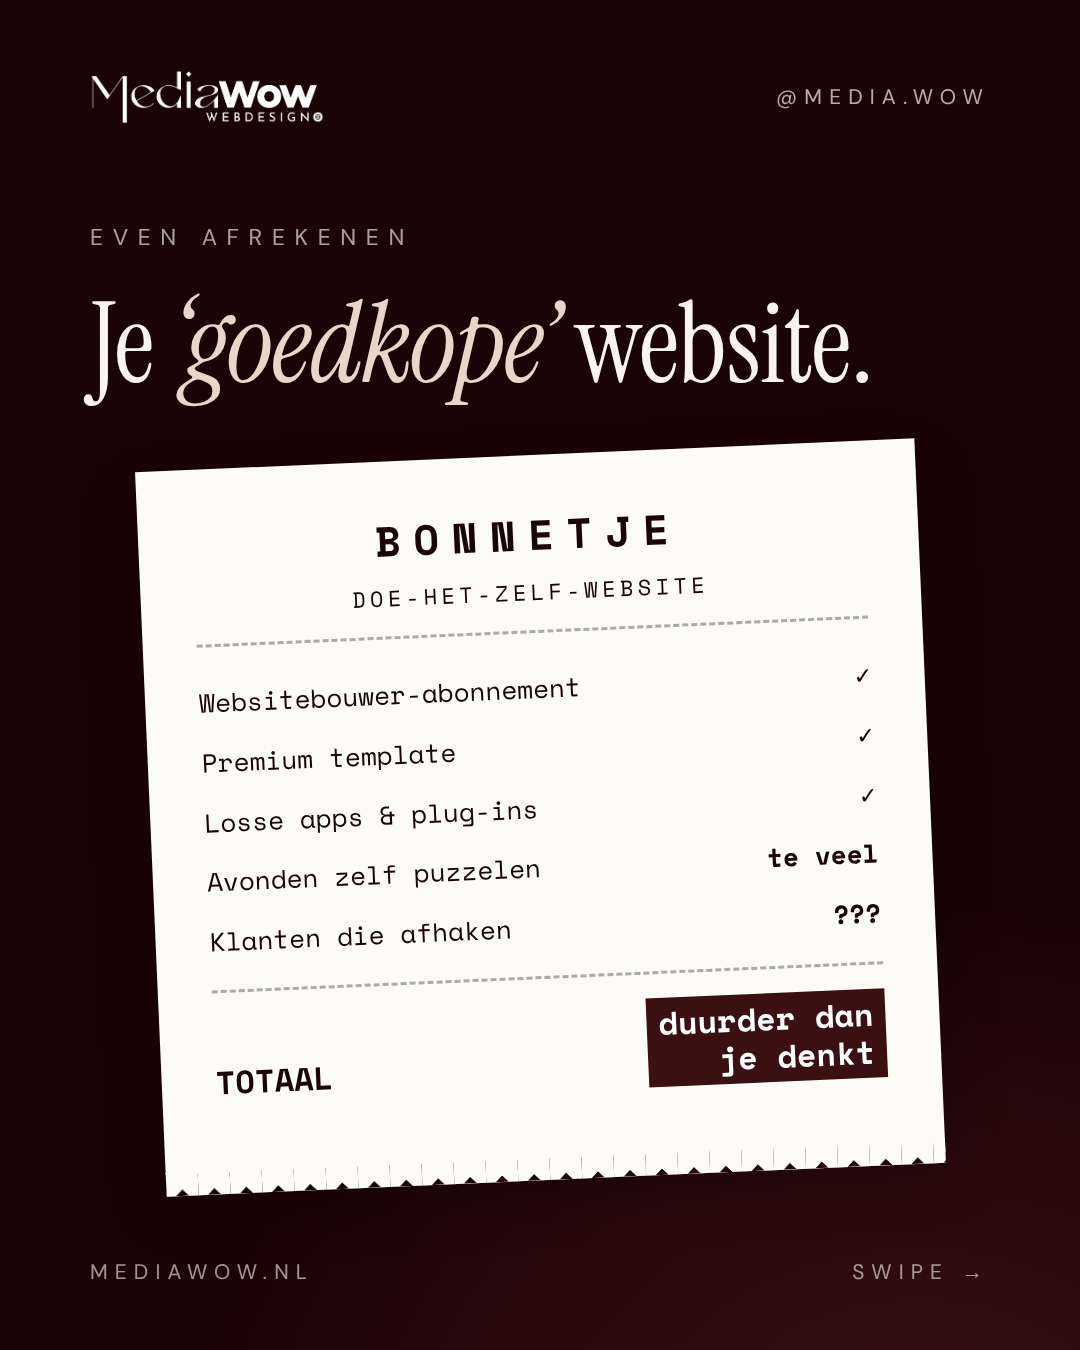
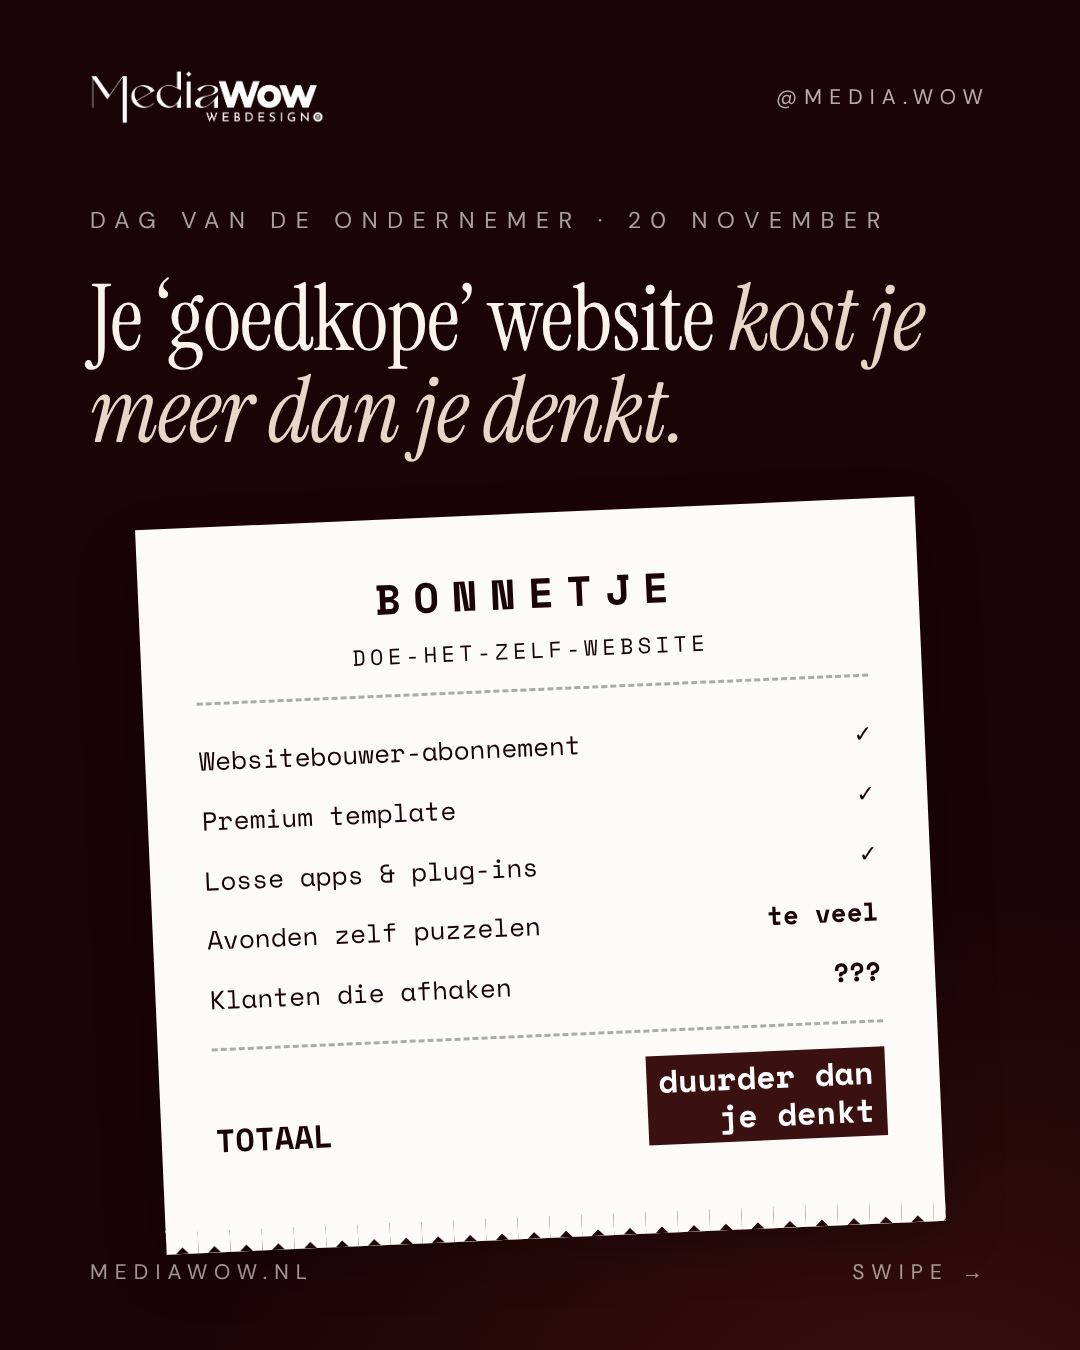
Week 1: sharper Friday hook, no-show post for Saturday, laptop on Sunday, final schedule
Claude-Session: https://claude.ai/code/session_01RBQ5c9Pv2G8CobvSf5vDwJ

diff --git a/instagram/slides.js b/instagram/slides.js
@@ -260,8 +260,8 @@ Of reageer HORECA en ik stuur je de link 🤍
     id: '5-vr-bonnetjes',
     slides: [
       { theme: 'dark', html: `
-        <div class="kicker">Even afrekenen</div>
-        <h1 class="lg">Je <em>‘goedkope’</em> website.</h1>
+        <div class="kicker" style="margin-top:40px">Dag van de Ondernemer · 20 november</div>
+        <h1 class="md">Je ‘goedkope’ website <em>kost je meer dan je denkt.</em></h1>
         <div class="receipt" style="transform:rotate(-2.5deg)">
           <div class="r-title">BONNETJE</div><div class="r-sub">doe-het-zelf-website</div>
           <div class="r-line"><span>Websitebouwer-abonnement</span><span>✓</span></div>
@@ -289,7 +289,9 @@ Of reageer HORECA en ik stuur je de link 🤍
         <p class="lead">Vrijblijvend, via mediawow.nl. Of reageer PREVIEW voor een gratis preview van je nieuwe website.</p>
         <span class="btn">Plan een kennismaking</span>` },
     ],
-    caption: `Je ‘goedkope’ website. Even afrekenen. 🧾
+    caption: `Je ‘goedkope’ website kost je meer dan je denkt. Even afrekenen. 🧾
+
+(Fijne Dag van de Ondernemer trouwens! 🥂 Vandaag dus een eerlijk bonnetje.)
 
 Abonnement ✓ Premium template ✓ Losse apps ✓
 Avonden zelf puzzelen: te veel
@@ -308,68 +310,69 @@ Bonnetje bewaren? Plan een vrijblijvende kennismaking via mediawow.nl (link in b
 
   // ───────────── ZA: LOCKSCREEN ─────────────
   {
-    id: '6-za-lockscreen',
+    id: '6-za-no-show',
     slides: [
       { theme: 'dark', html: `
-        <div class="kicker">Voor horeca · zaterdag 08:30</div>
-        <h1 class="hero">Zo zou jouw zaterdag <em>eruit moeten zien.</em></h1>
-        ${phone(`
-          <div class="lock"><div class="l-date">zaterdag 21 november</div><div class="l-time">08:30</div>
-            <div class="notif"><div class="n-ic">🍽</div><div class="n-b"><div class="n-top"><b>Zenchef</b><small>nu</small></div><p>Nieuwe reservering · 4 personen · vanavond 19:30</p></div></div>
-            <div class="notif"><div class="n-ic">🍽</div><div class="n-b"><div class="n-top"><b>Zenchef</b><small>3 min</small></div><p>Nieuwe reservering · 2 personen · vanavond 20:00</p></div></div>
-            <div class="notif"><div class="n-ic">🍽</div><div class="n-b"><div class="n-top"><b>Zenchef</b><small>11 min</small></div><p>Nieuwe reservering · 6 personen · zo 12:30 · verjaardag 🎂</p></div></div>
-            <div class="notif"><div class="n-ic">🍽</div><div class="n-b"><div class="n-top"><b>Zenchef</b><small>24 min</small></div><p>Nieuwe reservering · 2 personen · vanavond 21:00</p></div></div>
-            <div class="notif"><div class="n-ic">🍽</div><div class="n-b"><div class="n-top"><b>Zenchef</b><small>38 min</small></div><p>Nieuwe reservering · 8 personen · vr 19:00</p></div></div>
-            <div class="n-more">+ 7 nieuwe reserveringen</div>
-          </div>`, 'phone-big phone-lock')}` },
+        <div class="kicker">Voor horeca · zaterdagavond</div>
+        <h1 class="hero">Tafel voor 4 om 19:30. <em>Niemand kwam.</em></h1>
+        <div class="tent">
+          <div class="tent-top"></div>
+          <div class="tent-card">
+            <div class="tc-k">Gereserveerd</div>
+            <div class="tc-n">Fam. de Vries</div>
+            <div class="tc-d">19:30 · 4 personen</div>
+          </div>
+          <div class="noshow">No-show</div>
+        </div>` },
       { theme: 'dark', html: `
-        <div class="kicker">Of…</div>
-        <h1 class="lg"><em>…zo.</em></h1>
-        ${phone(`
-          <div class="lock"><div class="l-date">zaterdag 21 november</div><div class="l-time">08:30</div>
-            <div class="l-empty">Geen meldingen</div>
-          </div>`, 'phone-low phone-lock')}` },
+        <div class="kicker">01 — Wat één restaurant deed</div>
+        <div class="big-stat"><span class="from">30%</span><span class="arr">→</span><span class="to">3%</span></div>
+        <h2>Minder no-shows. <em>Met één aanpassing.</em></h2>
+        <p class="lead">Een restaurant in Wateringen vraagt bij het reserveren €10 aanbetaling per persoon. Hun no-shows daalden van 30 naar 3 procent.</p>
+        <p class="src">Bron: Entree Magazine</p>` },
       { theme: 'dark', html: `
-        <div class="kicker">01 — Het verschil</div>
-        <h1 class="lg">Niet je zaak. <em>Je website.</em></h1>
-        <p class="lead">Gasten willen gewoon reserveren, het liefst in een paar tikken. Op het moment dat zij eraan denken.</p>
+        <div class="kicker">02 — Zo regel je het op je website</div>
+        <h2>Reserveren mét <em>commitment.</em></h2>
         <div class="list">
-          <div><i>01</i>Boek- of reserveerknop direct in beeld</div>
-          <div><i>02</i>Zenchef direct op je eigen website, in jouw stijl</div>
-          <div><i>03</i>Alles wat ze willen weten, zonder te appen</div>
+          <div><i>01</i>Aanbetaling of creditcardgarantie in je reserveringsflow</div>
+          <div><i>02</i>Automatische herinnering de dag ervoor</div>
+          <div><i>03</i>Annuleren in één klik, zodat ze afzeggen in plaats van wegblijven</div>
+          <div><i>04</i>Duidelijke voorwaarden, vriendelijk verwoord</div>
         </div>` },
       { theme: 'dark', html: `
         <img class="card-img" src="{{img:mw-mockup-lilou-1-7.jpg}}" style="height:420px;object-position:50% 62%">
         <div class="kicker" style="margin-top:56px">Websites voor horeca</div>
-        <h1 class="md">Meer van die <em>meldingen?</em></h1>
-        <p class="lead">Een website die je tafels vult, met Zenchef of Guestplan erin. Bekijk de 5 horeca-ontwerpen.</p>
+        <h1 class="md">Volle tafels. <em>Die ook echt komen.</em></h1>
+        <p class="lead">Zenchef of Guestplan netjes in je eigen website. Bekijk de 5 horeca-ontwerpen.</p>
         <span class="btn">mediawow.nl/horeca</span>` },
     ],
-    caption: `Zo zou jouw zaterdag eruit moeten zien. ☕📲
-Koffie, telefoon erbij… en de ene na de andere reservering via Zenchef.
+    caption: `Tafel voor 4 om 19:30. Niemand kwam. 🍽
+Herkenbaar? Juist op vrijdag- en zaterdagavond doet een no-show extra pijn.
 
-Of zie jij vooral “Geen meldingen”?
+Een restaurant in Wateringen vraagt nu €10 aanbetaling per persoon bij het reserveren. Hun no-shows daalden van 30% naar 3% (bron: Entree Magazine).
 
-Het verschil zit vaak niet in je zaak, maar in je website:
-✔ een reserveerknop die je direct ziet
-✔ Zenchef (of Guestplan) netjes op je eigen website, in jouw stijl
-✔ menu, openingstijden en route zonder zoeken
+Zo regel je dat via je website:
+✔ aanbetaling of creditcardgarantie in je reserveringsflow
+✔ een automatische herinnering de dag ervoor
+✔ annuleren in één klik, zodat gasten afzeggen in plaats van wegblijven
+✔ duidelijke voorwaarden, vriendelijk verwoord
 
-Wil jij meer van die meldingen? 📲
-Bekijk de 5 horeca-ontwerpen en klik rond in de live demo's op mediawow.nl/horeca (link in bio). Binnen drie weken online, vanaf €89 per maand.
+Werk je met Zenchef of Guestplan? Dan kan dat gewoon netjes in je eigen website. Bekijk de horeca-ontwerpen op mediawow.nl/horeca (link in bio).
 
-Of reageer HORECA en ik stuur je de link 🤍
+👇 Of reageer TIPS en ik check jouw website gratis.
 
-#horeca #restaurant #horecaondernemer #zenchef #restaurantwebsite #webdesign #mediawow`,
+Hoe ga jij om met no-shows? 👇
+
+#horeca #restaurant #noshow #horecaondernemer #zenchef #restaurantwebsite #mediawow`,
   },
 
-  // ───────────── ZO: UNPOPULAR OPINION ─────────────
   {
     id: '7-zo-unpopular-opinion',
     slides: [
       { theme: 'dark', html: `
         <div class="kicker">Unpopular opinion</div>
-        <h1 class="hero">Je hebt geen <span class="strike">mooiere</span> website nodig.</h1>
+        <h1 class="hero" style="font-size:124px">Je hebt geen <span class="strike">mooiere</span> website nodig.</h1>
+        <div class="laptop-wrap"><img src="{{img:mw-mockup-browz-amsterdam-1-6.jpg}}"><div class="neq">mooi + het werkt ✓</div></div>
         <p class="lead">Ja, dat zegt een webdesigner. Swipe →</p>` },
       { theme: 'dark', html: `
         <h1 class="xl">Je hebt een website nodig die iets <em>dóét.</em></h1>

diff --git a/instagram/build.js b/instagram/build.js
@@ -203,6 +203,22 @@ em{font-style:italic}
 .s:has(.phone-cover){justify-content:flex-start;padding-top:200px}
 .s:has(.phone-cover) .ftr{display:none}
 .phone-cover .bub{font-size:29px}
+.tent{position:relative;margin:70px auto 0;width:700px;height:520px}
+.tent-card{position:absolute;left:0;right:0;bottom:0;height:420px;background:#FDFBF7;color:#1B0405;display:flex;flex-direction:column;align-items:center;justify-content:center;text-align:center;box-shadow:0 40px 80px rgba(0,0,0,.55);transform:perspective(900px) rotateX(10deg)}
+.tent-card:before{content:'';position:absolute;inset:22px;border:1.5px solid rgba(58,16,17,.25)}
+.tent-top{position:absolute;left:30px;right:30px;bottom:400px;height:40px;background:#E9E2D6;transform:perspective(900px) rotateX(60deg);transform-origin:bottom}
+.tc-k{font-size:24px;letter-spacing:.5em;text-transform:uppercase;color:#7A5A5A}
+.tc-n{font-family:'Instrument Serif';font-style:italic;font-size:96px;line-height:1;margin:20px 0 14px}
+.tc-d{font-size:30px;letter-spacing:.12em;color:#3A1011}
+.noshow{position:absolute;right:-50px;top:40px;z-index:3;border:6px solid #B3261E;color:#B3261E;font-size:36px;font-weight:700;letter-spacing:.3em;text-transform:uppercase;padding:18px 30px;transform:rotate(-12deg);background:rgba(253,251,247,.9)}
+.big-stat{font-family:'Instrument Serif';font-size:230px;line-height:.9;margin-bottom:40px;display:flex;align-items:baseline;gap:30px}
+.big-stat .from{color:rgba(250,244,237,.4);text-decoration:line-through;text-decoration-thickness:8px;text-decoration-color:#B3261E}
+.big-stat .arr{font-size:.45em;color:rgba(250,244,237,.5)}
+.big-stat .to{font-style:italic;color:#E9D6C8}
+.src{margin-top:24px;font-size:22px;letter-spacing:.2em;text-transform:uppercase;color:rgba(250,244,237,.45)}
+.laptop-wrap{position:relative;margin-top:56px;border-radius:6px;overflow:hidden;box-shadow:0 40px 80px rgba(0,0,0,.5)}
+.laptop-wrap img{display:block;width:100%;height:520px;object-fit:cover;object-position:50% 55%}
+.neq{position:absolute;right:30px;bottom:30px;background:#1B0405;color:#FAF4ED;font-family:'Instrument Serif';font-style:italic;font-size:64px;padding:10px 30px}
 `;
 
 function slideHTML(sl, i, n) {

diff --git a/instagram/content-plan.md b/instagram/content-plan.md
@@ -137,3 +137,21 @@ In posts kun je niet klikken op een link. Daarom:
 - **Bio-link** op mediawow.nl/horeca zetten in de week met horeca-posts (of een linklijst met horeca, salons en gratis preview).
 - **Reageer HORECA** → stuur de link in een DM (binnen 24 uur).
 - **Story** met link-sticker naar mediawow.nl/horeca op de dag dat de horeca-post of Reel live gaat.
+
+
+---
+
+## Week 1, definitieve planning (stand 14/11)
+
+| Dag | Tijd | Post | Hook | Beeld | CTA |
+|---|---|---|---|---|---|
+| Za 14/11 | live | Reel Zenchef-lockscreen | Zo zou jouw zaterdag eruit moeten zien | telefoon (video) | TIPS |
+| Ma 16/11 | 19:30 | Gratis website-check | Ik check jouw website. Gratis. | reactieveld + DM-telefoon | TIPS |
+| Di 17/11 | 19:30 | Appjes (salons) | Krijg jij deze appjes ook? Dan mist je website iets. | chat-telefoon | TIPS |
+| Wo 18/11 | 19:30 | Red flags | Van wie is jouw website eigenlijk? | domeinregistratie + stempel | DM |
+| Do 19/11 | 19:30 | A of B (horeca) | Welke krijgt de reservering? | twee telefoons | A/B + /horeca |
+| Vr 20/11 | 19:30 | Bonnetjes (Dag van de Ondernemer) | Je 'goedkope' website kost je meer dan je denkt. | kassabon | kennismaking / PREVIEW |
+| Za 21/11 | 11:00 | No-shows (actueel) | Tafel voor 4 om 19:30. Niemand kwam. | gereserveerd-kaartje + NO-SHOW-stempel | /horeca + TIPS |
+| Zo 22/11 | 19:30 | Unpopular opinion | Je hebt geen ~~mooiere~~ website nodig. | laptop op sokkel | eens/oneens |
+
+Geen content over AI/Claude-tools (wens Mariska).
